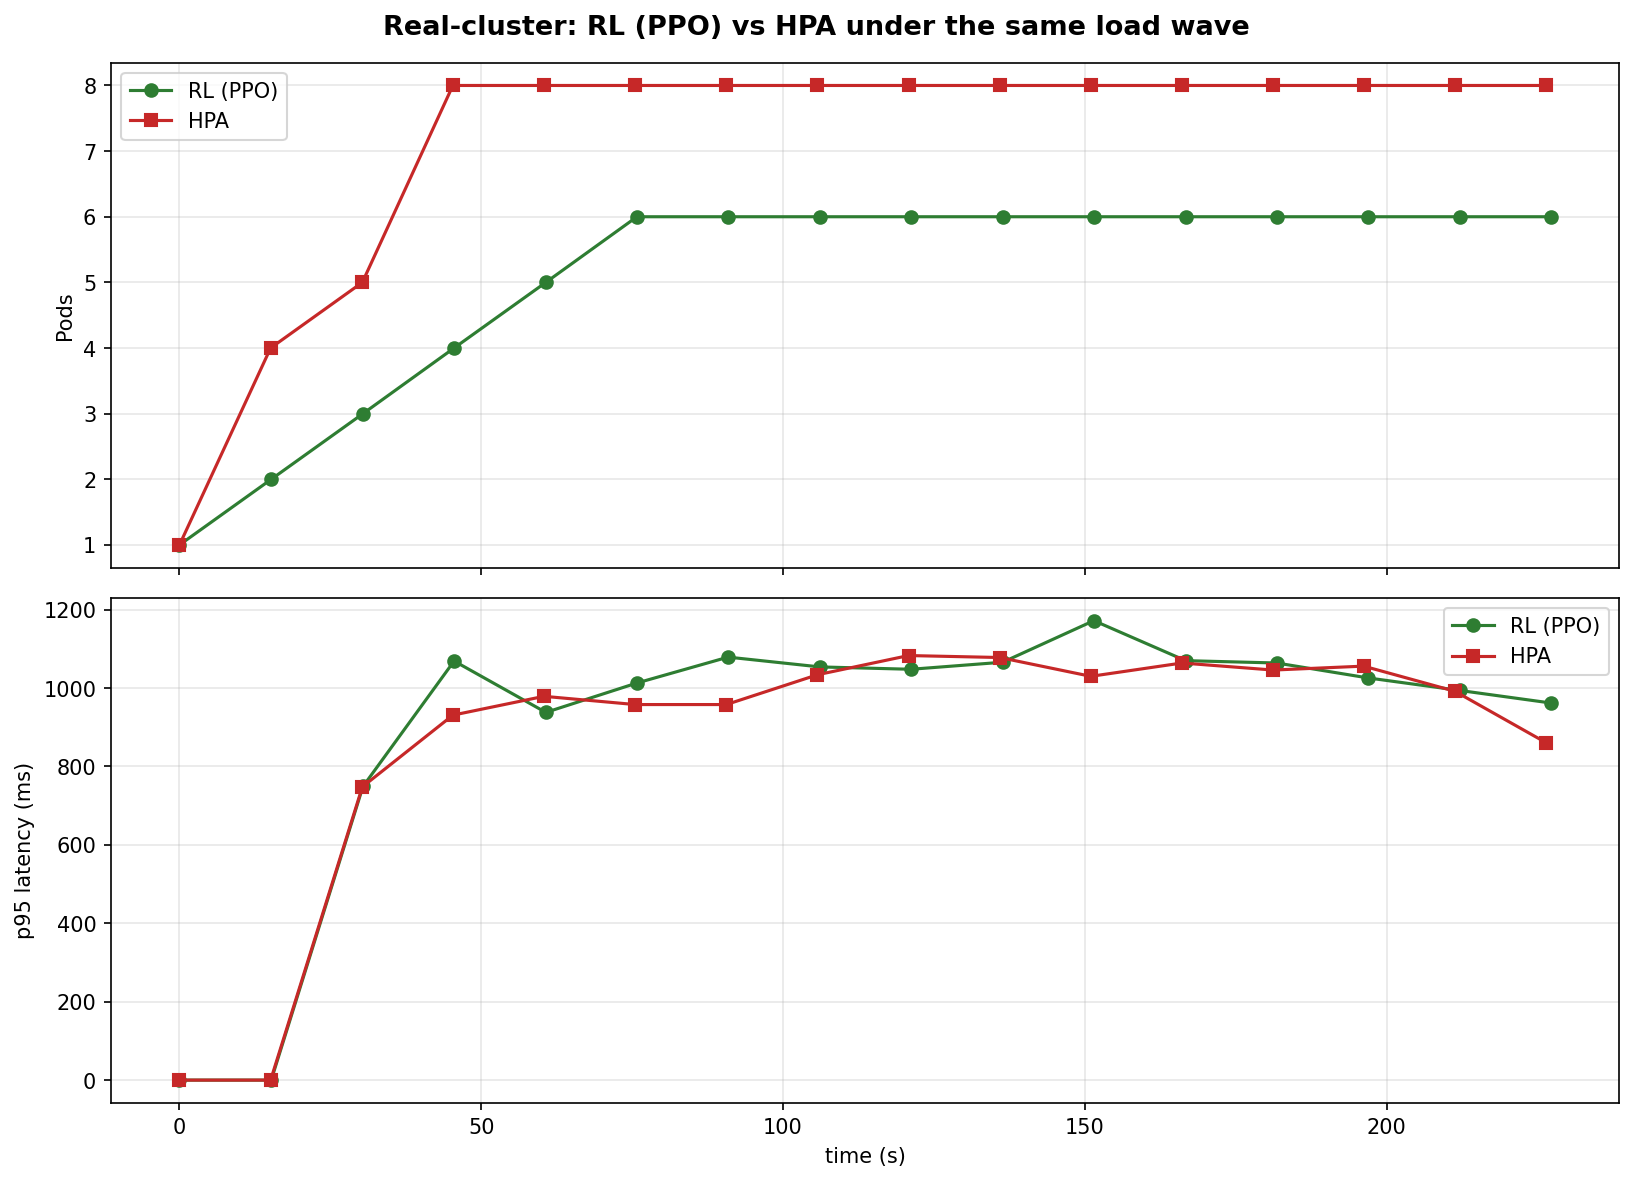
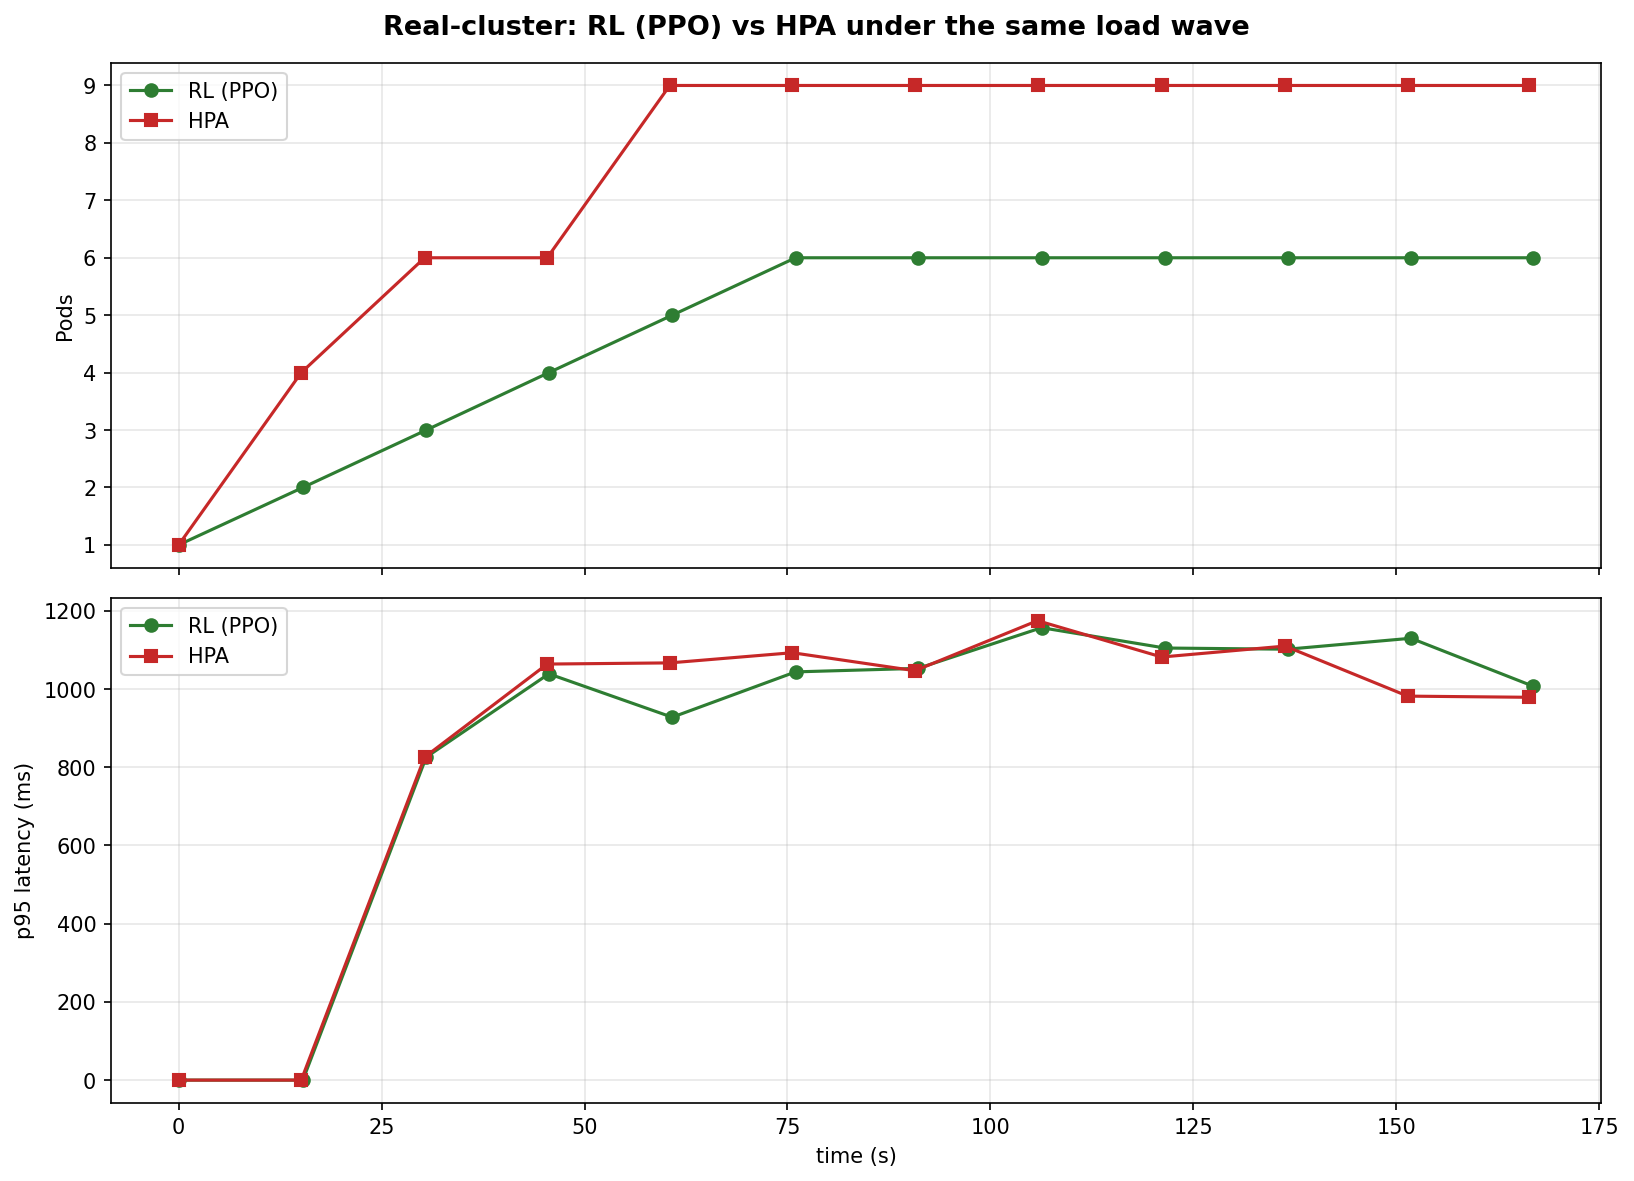
feat: calibrate real-cluster observation to close the sim-to-real gap
The agent was fed per-pod CPU as a fraction of one core (avg_cpu_m/1000), which
ignored replica count and sat far below the scale it trained on — so it leaned on
its safety prior and over-provisioned (worst at idle).

Add real_cpu_util(): map TOTAL real demand (avg_cpu_m * replicas), expressed in
units of the pod's CPU request and rescaled by POD_CAPACITY, into the [0,1] load
the agent trained on. The CPU request is read from the deployment (no hardcoding).
Wired into live_cluster, experiment (console Stage-2), and the CLI rl_controller.

Effect: under load the agent now right-sizes to the correct pod count and tracks
the ramp; idle no longer runs to max (settles at its trained floor). Fresh real
run: 4.75 vs 7.42 avg pods (~36% fewer) at equal p95 latency (866 vs 869 ms).
No retraining — the existing champion is reused unchanged.

diff --git a/serving/live_cluster.py b/serving/live_cluster.py
@@ -34,6 +34,32 @@ def cluster_available():
     return out.endswith(DEPLOYMENT)
 
 
+def get_cpu_request_millicores():
+    """Read the pod's CPU request (e.g. '200m') from the deployment. Default 200."""
+    out = _sh(["kubectl", "get", "deployment", DEPLOYMENT, "-o",
+               "jsonpath={.spec.template.spec.containers[0].resources.requests.cpu}"])
+    if out.endswith("m") and out[:-1].isdigit():
+        return float(out[:-1])
+    try:
+        return float(out) * 1000.0          # e.g. "1" core -> 1000m
+    except ValueError:
+        return 200.0
+
+
+def real_cpu_util(avg_cpu_m, replicas, request_m):
+    """Convert REAL cluster CPU into the [0,1] load value the agent trained on.
+
+    The agent learned on TOTAL normalized demand, where one pod serves
+    POD_CAPACITY of it. So we use the total CPU across all pods
+    (avg_cpu_m * replicas), express it in units of the pod's CPU request, and
+    rescale by POD_CAPACITY. This makes the agent's "pods needed" match reality
+    (e.g. an idle cluster maps to ~0, so the agent stops over-provisioning).
+    """
+    total_m = avg_cpu_m * max(replicas, 1)
+    cu = KubernetesEnv.POD_CAPACITY * total_m / max(request_m, 1.0)
+    return float(min(max(cu, 0.0), 1.0))
+
+
 def cluster_info():
     """Live cluster details for the UI (so nobody needs the terminal)."""
     context = _sh(["kubectl", "config", "current-context"]) or "unknown"
@@ -87,6 +113,7 @@ class LiveClusterEngine:
 
     def __init__(self, engine=None):
         self.engine = engine or InferenceEngine()
+        self.request_m = get_cpu_request_millicores()      # calibration: pod CPU request
         self.reset()
 
     # ── cluster IO ───────────────────────────────────────────────
@@ -115,8 +142,8 @@ class LiveClusterEngine:
         self._actions = {"up": 0, "hold": 0, "down": 0}
         self._peak_pods = max(self._get_replicas(), MIN_PODS)
         self._replicas = self._peak_pods
-        self._cpu = min(self._get_avg_cpu_millicores() / 1000.0, 1.0)
-        self._avg_cpu_m = round(self._cpu * 1000, 1)
+        self._avg_cpu_m = self._get_avg_cpu_millicores()
+        self._cpu = real_cpu_util(self._avg_cpu_m, self._replicas, self.request_m)
         self._rl = (1, None, "maintain")
         return self._build(applied=False)
 
@@ -124,7 +151,7 @@ class LiveClusterEngine:
     def step(self, apply=False):
         replicas = max(self._get_replicas(), MIN_PODS)
         avg_cpu_m = self._get_avg_cpu_millicores()
-        cpu_util = min(avg_cpu_m / 1000.0, 1.0)
+        cpu_util = real_cpu_util(avg_cpu_m, replicas, self.request_m)
         queue_proxy = cpu_util * KubernetesEnv.QUEUE_SCALE
         day_progress = (self.tick % DAY_TICKS) / DAY_TICKS
 

diff --git a/serving/experiment.py b/serving/experiment.py
@@ -19,6 +19,7 @@ import threading
 from deploy.controller.rl_controller import (
     get_replicas, get_avg_cpu_millicores, scale_to, DEPLOYMENT, sh,
 )
+from serving.live_cluster import real_cpu_util, get_cpu_request_millicores
 
 ROOT = os.path.join(os.path.dirname(__file__), "..")
 HPA_YAML = os.path.join(ROOT, "deploy", "k8s", "hpa.yaml")
@@ -30,6 +31,7 @@ class ExperimentRunner:
     def __init__(self, engine, loadgen):
         self.engine = engine
         self.loadgen = loadgen
+        self._request_m = get_cpu_request_millicores()         # calibration: pod CPU request
         self.state = "idle"           # idle | running | done | error
         self.phase = None             # rl | hpa | null
         self.duration = 0
@@ -82,7 +84,7 @@ class ExperimentRunner:
             cpu_m = get_avg_cpu_millicores()
             ls = self.loadgen.status()
             if mode == "rl":
-                cu = min(cpu_m / 1000.0, 1.0)
+                cu = real_cpu_util(cpu_m, replicas, self._request_m)
                 d = self.engine.decide(cpu_util=cu, pods=replicas,
                                        queue_depth=cu * 1000.0,
                                        day_progress=elapsed / duration)

diff --git a/deploy/controller/rl_controller.py b/deploy/controller/rl_controller.py
@@ -28,6 +28,7 @@ sys.path.insert(0, ROOT)
 
 from environment.custom_env import KubernetesEnv
 from serving.inference_engine import InferenceEngine
+from serving.live_cluster import real_cpu_util, get_cpu_request_millicores
 
 DEPLOYMENT = "eco-sample-app"
 MIN_PODS, MAX_PODS = 1, 10        # cluster scaling bounds (HPA uses the same)
@@ -70,6 +71,7 @@ def main():
     args = ap.parse_args()
 
     engine = InferenceEngine()
+    request_m = get_cpu_request_millicores()
     print(f"RL controller using {engine.algorithm} champion on '{DEPLOYMENT}'")
 
     start = time.perf_counter()
@@ -81,7 +83,8 @@ def main():
 
         replicas = get_replicas()
         avg_cpu_m = get_avg_cpu_millicores()
-        cpu_util = min(avg_cpu_m / 1000.0, 1.0)              # fraction of 1 core
+        # calibrate real total CPU demand into the load value the agent trained on
+        cpu_util = real_cpu_util(avg_cpu_m, max(replicas, 1), request_m)
         queue_proxy = cpu_util * KubernetesEnv.QUEUE_SCALE   # proxy (no real queue)
         day_progress = min(elapsed / args.duration, 1.0)
 
